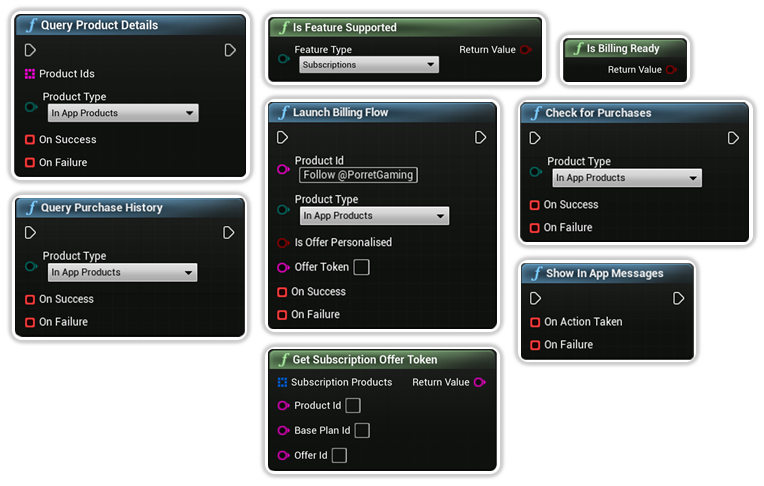
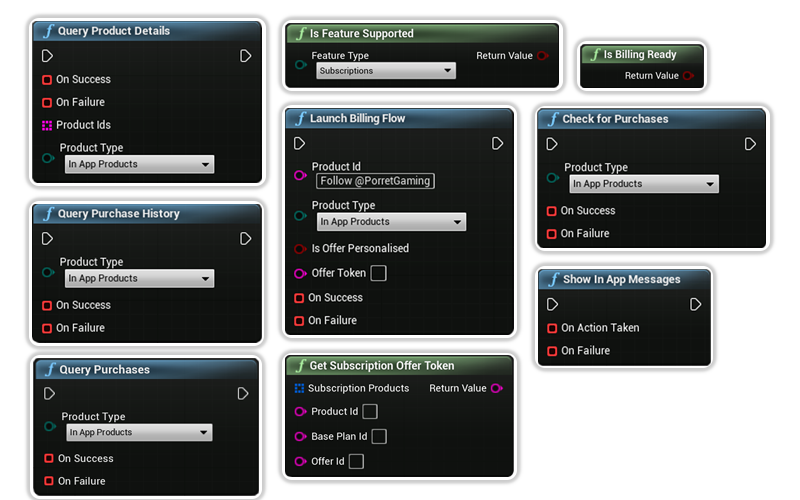
feature: add query purchases blueprint node documentation - billing

diff --git a/plugins/google-play-services/billing/query_purchases.html b/plugins/google-play-services/billing/query_purchases.html
@@ -128,7 +128,7 @@
                             <a class="nav-link disabled">Developer Guidelines</a>
                         </li>
                         <li class="nav-item">
-                            <a class="nav-link active" href="overview.html">
+                            <a class="nav-link inactive" href="overview.html">
                                 Overview
                             </a>
                         </li>
@@ -158,7 +158,7 @@
                             </a>
                         </li>
                         <li class="nav-item">
-                            <a class="nav-link inactive" href="query_purchases.html">
+                            <a class="nav-link active" href="query_purchases.html">
                                 Query Purchases
                             </a>
                         </li>
@@ -212,57 +212,76 @@
             </nav>
 
             <main role="main" class="col-md-9 ml-sm-auto col-lg-10 px-4">
-                <div class="container border-bottom"
-                    style="margin-left: 0px; padding-left: 0px; margin-bottom: 20px; margin-top: 20px; margin-right: 20px;">
-                    <h1 class="h2 text-white-shadow">Billing Overview</h1>
+                <div class="container border-bottom" style="margin-left: 0px; padding-left: 0px; margin-bottom: 20px; margin-top: 20px; margin-right: 20px;">
+                    <h1 class="h2 text-white-shadow">Query Purchases</h1>
                 </div>
                 <div class="container" style="margin-left: 0px; padding-left: 0px;">
                     <div class="info">
                         <p class="content">
-                            <b>The Google Play Service: Billing</b>
+                            This is an asynchronous function which returns currently owned items bought by the player, only including active subscriptions and non-consumed one-time purchases.
+                            You can use this to check if a subscription is still active.
                         </p>
                         <p class="content">
-                            The Google Play Billing Library is a powerful tool provided by Google Play Services that enables developers to implement in-app purchases and subscription services in their Android games. With this library, developers can monetize their games, offer premium content, and provide a seamless purchasing experience for players.
-                        </p>
-                        <ul>
-                            <li class="blue-diamond">Fetch All Product Information</li>
-                            <li class="blue-diamond">Launch the Billing Flow for your Products</li>
-                            <li class="blue-diamond">Fetch Purchase History Information</li>
-                            <li class="blue-diamond">Retrieve All Currently Owned Purchases</li>
-                            <li class="blue-diamond">Check if a Feature is Supported</li>
-                            <li class="blue-diamond">Handle Pending Purchases/Transactions</li>
-                            <li class="blue-diamond">Show In-App Messages (Price Change Confirmations)</li>
-                            <li class="blue-diamond">Acknowledge/Consume Purchases Automatically in Google Play</li>
-                            <li class="blue-diamond">Indicate Personalised Prices</li>
-                        </ul>
-                        <p class="content" style="margin-bottom: 0rem;">
-                            By leveraging the capabilities of the Google Play Billing Library, developers can unlock new revenue streams, engage their player base, and create a sustainable business model for their Android games.
-                        </p>
-                    </div>
-                    <div class="info" style="margin-top: 20px">
-                        <p class="content">
-                            <b>The Unreal Engine Plugin</b>
+                            Note: This method uses a cache of Google Play Store app without initiating a network request. When testing subscriptions using a test subscription, this cache does not update regularly.
                         </p>
                         <p class="content">
-                            Introducing the Unreal Engine plugin for the Billing service, a powerful tool that brings the features of <span style="font-weight: 500">Google Play Billing Version 6</span> directly to your Unreal Engine projects.
-                            This plugin is designed to expose the Billing service's functionality to blueprint scripting, simplifying the integration process for game developers.
-                        </p>
-                        <p class="content">
-                            With an intuitive and user-friendly interface seamlessly integrated into the Unreal Engine editor, connecting to the service becomes a breeze.
-                            Whether you're a seasoned Unreal Engine developer or new to the platform, our plugin empowers you to easily perform all the features provided by the Google Play Billing Library, enhancing the capabilities of your game.
+                            The parameters include the Product Type to query for owned purchases.
                         </p>
                         <p class="content" style="margin-bottom: 0rem;">
-                            Action has been taken to update Unreal Engines existing integration with the older billing library to adhere to any of the breaking changes from the library update.
-                            <span style="font-weight: 500">Billing functionality implemented in your project must therefore only interact with this plugin's billing functionality and not Unreal Engine provided Google Play billing services.</span>
+                            Once the asynchronous operation has completed, one of two delegates will be called to handle
+                            the success and failure situations.
                         </p>
                     </div>
-                    <!-- <div class="info" style="margin-top: 20px"> -->
-                    <div style="display: flex; justify-content: center; align-items: center; margin-top: 1rem;">
-                        <img src="../../../images/Billing/Billing_Plugin_AllNodes.png" style="width: 80%">
+                </div>
+                <div class="container" style="margin-left: 0px; padding-left: 0px;">
+                    <div style="display: flex; justify-content: center; align-items: center;">
+                        <img src="../../../images/Billing/Billing_Plugin_QueryPurchases.png" style="max-width: 70%;">
                     </div>
-                    <!-- </div> -->
-                    <div style="margin-bottom: 400px">
+                </div>
+                <div style="padding-top: 30px">
+                    <div class="container" style="margin-left: 0px; padding-left: 0px; position: relative;">
+                        <span class="badge badge-primary">1</span>
+                        <div class="info">
+                            <p class="content">
+                                <b>Product Type</b>
+                            </p>
+                            <p class="content" style="margin-bottom: 0rem;">
+                                <a href="enumerations.html">Product Type</a> can either be Subscription or InApp products.
+                            </p>
+                        </div>
                     </div>
+                </div>
+                <div style="padding-top: 30px">
+                    <div class="container" style="margin-left: 0px; padding-left: 0px; position: relative;">
+                        <span class="badge badge-primary">2</span>
+                        <div class="info">
+                            <p class="content">
+                                <b>On Success</b>
+                            </p>
+                            <p class="content" style="margin-bottom: 0rem;">
+                                A delegate that will be called once all owned purchases have been retrieved.
+                                The delegate will produce a list of <a href="purchase.html">Purchases</a> for you to use.</br>
+                                You can simply click and drag this pin to create a custom event.
+                            </p>
+                        </div>
+                    </div>
+                </div>
+                <div style="padding-top: 30px">
+                    <div class="container" style="margin-left: 0px; padding-left: 0px; position: relative;">
+                        <span class="badge badge-primary">3</span>
+                        <div class="info">
+                            <p class="content">
+                                <b>On Failure</b>
+                            </p>
+                            <p class="content" style="margin-bottom: 0rem;">
+                                A delegate that will be called if there is an error attempting to look up recent purchases.
+                                The delegate will produce a <a href="enumerations.html">Billing Response Code</a> and debug message for the developer to handle appropriately.
+                                You can simply click and drag this pin to create a custom event.
+                            </p>
+                        </div>
+                    </div>
+                </div>
+                <div style="margin-bottom: 300px">
                 </div>
             </main>
         </div>

diff --git a/plugins/google-play-services/billing/check_for_purchases.html b/plugins/google-play-services/billing/check_for_purchases.html
@@ -158,6 +158,11 @@
                             </a>
                         </li>
                         <li class="nav-item">
+                            <a class="nav-link inactive" href="query_purchases.html">
+                                Query Purchases
+                            </a>
+                        </li>
+                        <li class="nav-item">
                             <a class="nav-link inactive" href="show_inapp_messages.html">
                                 Show In-App Messages
                             </a>

diff --git a/plugins/google-play-services/billing/contact.html b/plugins/google-play-services/billing/contact.html
@@ -158,6 +158,11 @@
                             </a>
                         </li>
                         <li class="nav-item">
+                            <a class="nav-link inactive" href="query_purchases.html">
+                                Query Purchases
+                            </a>
+                        </li>
+                        <li class="nav-item">
                             <a class="nav-link inactive" href="show_inapp_messages.html">
                                 Show In-App Messages
                             </a>

diff --git a/plugins/google-play-services/billing/enumerations.html b/plugins/google-play-services/billing/enumerations.html
@@ -158,6 +158,11 @@
                             </a>
                         </li>
                         <li class="nav-item">
+                            <a class="nav-link inactive" href="query_purchases.html">
+                                Query Purchases
+                            </a>
+                        </li>
+                        <li class="nav-item">
                             <a class="nav-link inactive" href="show_inapp_messages.html">
                                 Show In-App Messages
                             </a>

diff --git a/plugins/google-play-services/billing/getting_started.html b/plugins/google-play-services/billing/getting_started.html
@@ -158,6 +158,11 @@
                             </a>
                         </li>
                         <li class="nav-item">
+                            <a class="nav-link inactive" href="query_purchases.html">
+                                Query Purchases
+                            </a>
+                        </li>
+                        <li class="nav-item">
                             <a class="nav-link inactive" href="show_inapp_messages.html">
                                 Show In-App Messages
                             </a>

diff --git a/plugins/google-play-services/billing/launch_billing_flow.html b/plugins/google-play-services/billing/launch_billing_flow.html
@@ -158,6 +158,11 @@
                             </a>
                         </li>
                         <li class="nav-item">
+                            <a class="nav-link inactive" href="query_purchases.html">
+                                Query Purchases
+                            </a>
+                        </li>
+                        <li class="nav-item">
                             <a class="nav-link inactive" href="show_inapp_messages.html">
                                 Show In-App Messages
                             </a>

diff --git a/plugins/google-play-services/billing/product_details.html b/plugins/google-play-services/billing/product_details.html
@@ -158,6 +158,11 @@
                             </a>
                         </li>
                         <li class="nav-item">
+                            <a class="nav-link inactive" href="query_purchases.html">
+                                Query Purchases
+                            </a>
+                        </li>
+                        <li class="nav-item">
                             <a class="nav-link inactive" href="show_inapp_messages.html">
                                 Show In-App Messages
                             </a>

diff --git a/plugins/google-play-services/billing/purchase.html b/plugins/google-play-services/billing/purchase.html
@@ -158,6 +158,11 @@
                             </a>
                         </li>
                         <li class="nav-item">
+                            <a class="nav-link inactive" href="query_purchases.html">
+                                Query Purchases
+                            </a>
+                        </li>
+                        <li class="nav-item">
                             <a class="nav-link inactive" href="show_inapp_messages.html">
                                 Show In-App Messages
                             </a>

diff --git a/plugins/google-play-services/billing/purchase_history_record.html b/plugins/google-play-services/billing/purchase_history_record.html
@@ -158,6 +158,11 @@
                             </a>
                         </li>
                         <li class="nav-item">
+                            <a class="nav-link inactive" href="query_purchases.html">
+                                Query Purchases
+                            </a>
+                        </li>
+                        <li class="nav-item">
                             <a class="nav-link inactive" href="show_inapp_messages.html">
                                 Show In-App Messages
                             </a>

diff --git a/plugins/google-play-services/billing/query_product_details.html b/plugins/google-play-services/billing/query_product_details.html
@@ -158,6 +158,11 @@
                             </a>
                         </li>
                         <li class="nav-item">
+                            <a class="nav-link inactive" href="query_purchases.html">
+                                Query Purchases
+                            </a>
+                        </li>
+                        <li class="nav-item">
                             <a class="nav-link inactive" href="show_inapp_messages.html">
                                 Show In-App Messages
                             </a>

diff --git a/plugins/google-play-services/billing/query_purchase_history.html b/plugins/google-play-services/billing/query_purchase_history.html
@@ -158,6 +158,11 @@
                             </a>
                         </li>
                         <li class="nav-item">
+                            <a class="nav-link inactive" href="query_purchases.html">
+                                Query Purchases
+                            </a>
+                        </li>
+                        <li class="nav-item">
                             <a class="nav-link inactive" href="show_inapp_messages.html">
                                 Show In-App Messages
                             </a>

diff --git a/plugins/google-play-services/billing/supporting_nodes.html b/plugins/google-play-services/billing/supporting_nodes.html
@@ -158,6 +158,11 @@
                             </a>
                         </li>
                         <li class="nav-item">
+                            <a class="nav-link inactive" href="query_purchases.html">
+                                Query Purchases
+                            </a>
+                        </li>
+                        <li class="nav-item">
                             <a class="nav-link inactive" href="show_inapp_messages.html">
                                 Show In-App Messages
                             </a>
